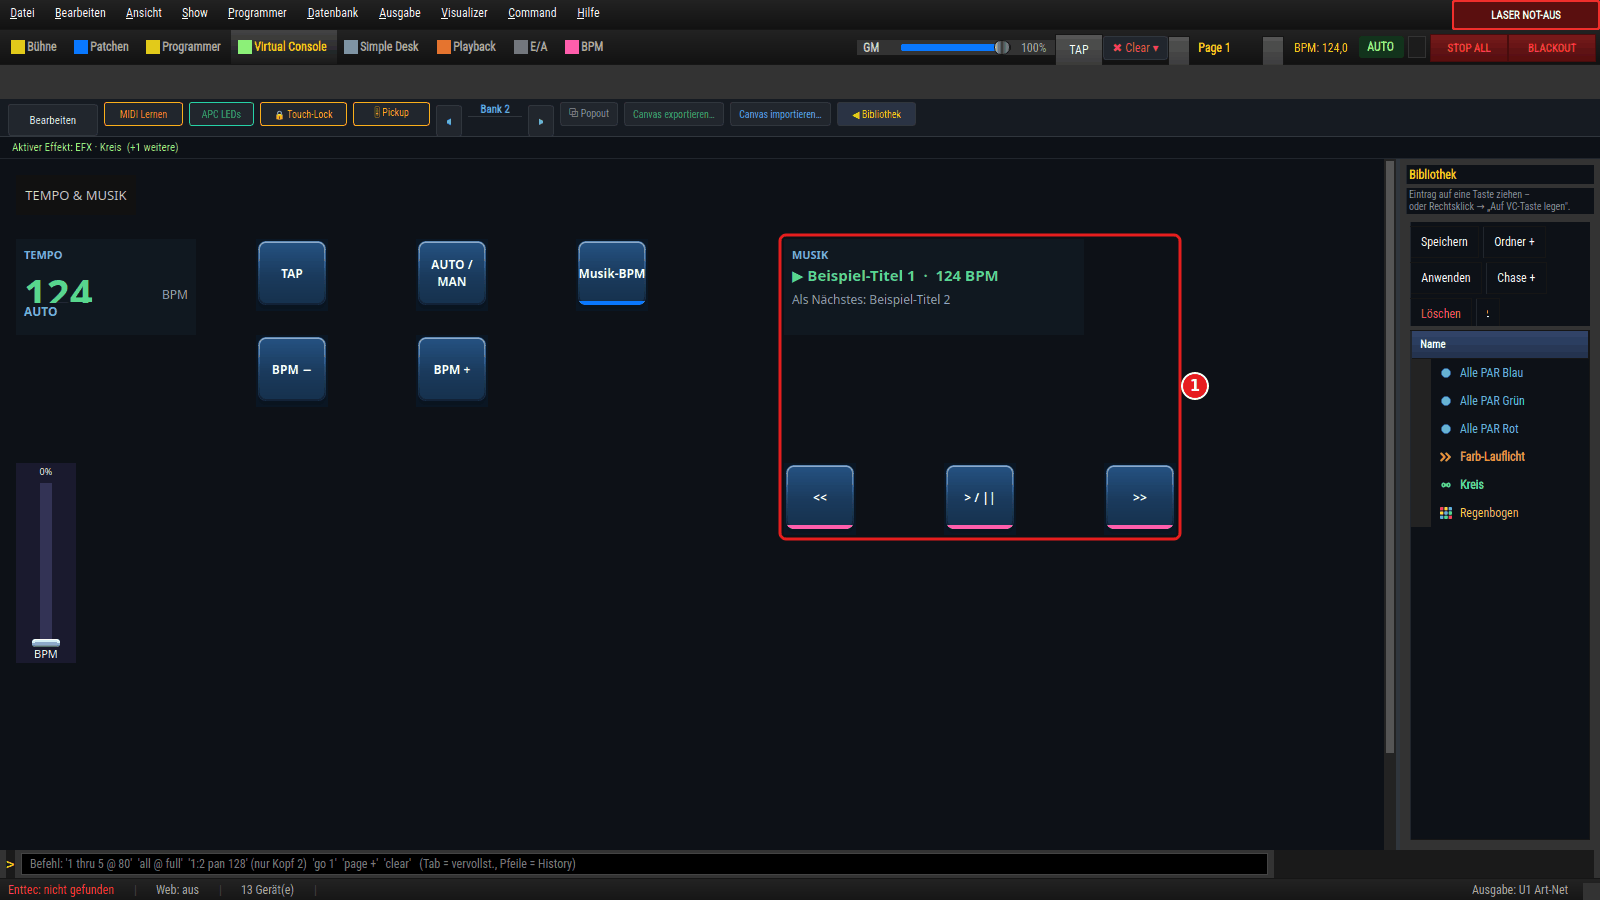
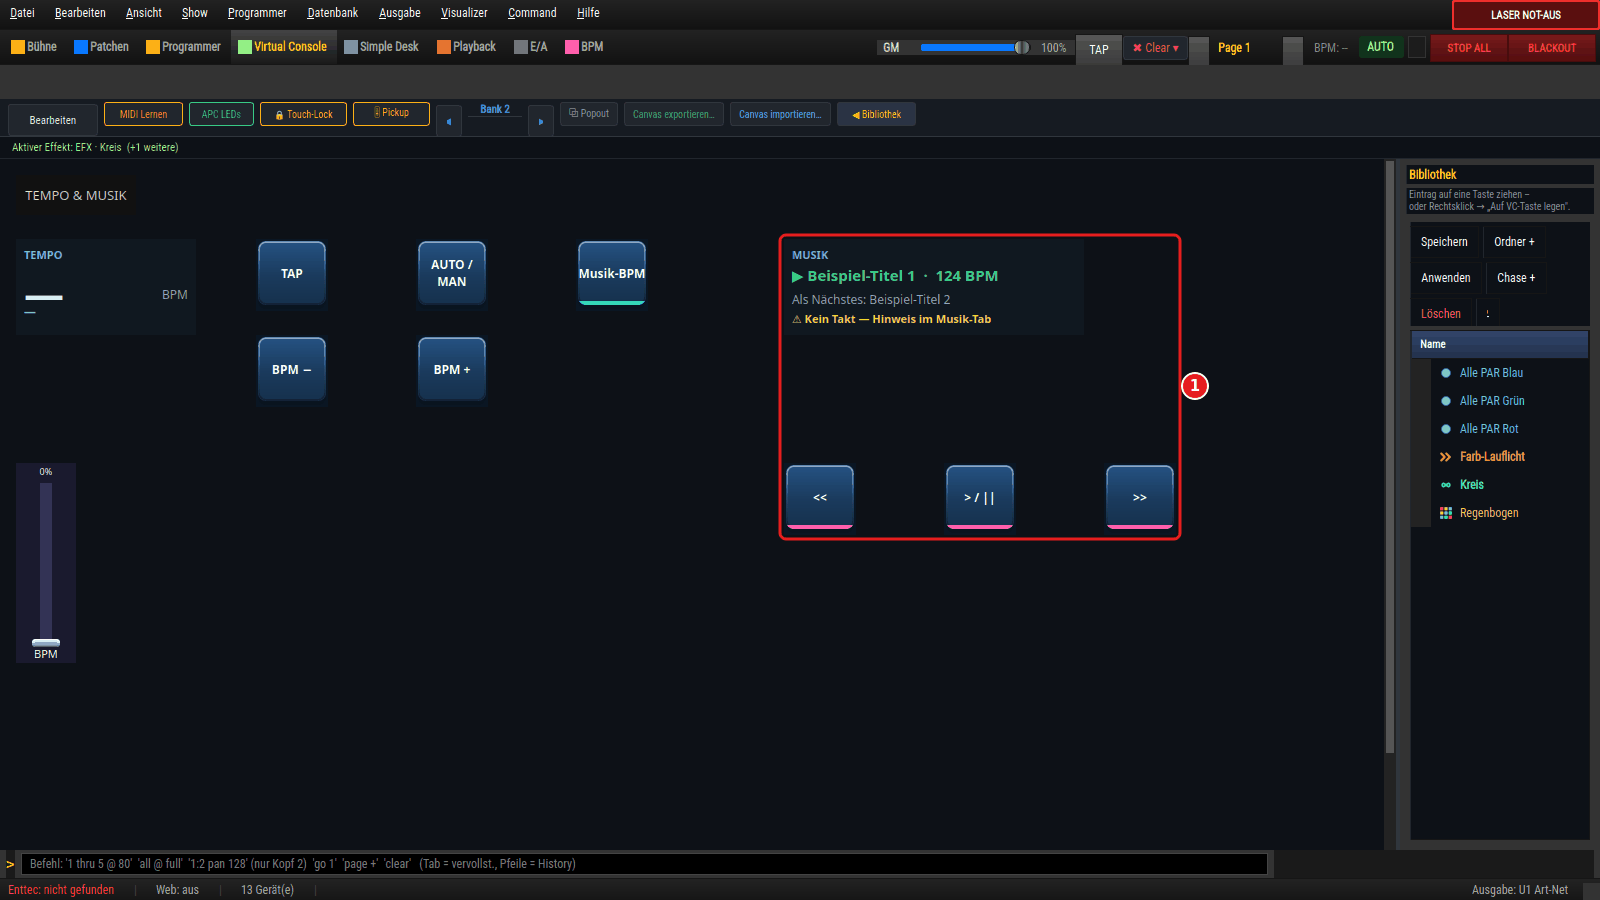
docs(musik): Hinweis "Takt aus Titel uebernehmen" in der Musik-Anleitung, Fragmente (BPM-32)

diff --git a/backlog.d/BPM-32.md b/backlog.d/BPM-32.md
@@ -1,7 +1,7 @@
 ID: BPM-32
 Prioritaet: P3
-Status: blocked
-Status-Notiz: wartet auf Entscheidung des Projektinhabers (Folgefrage aus BPM-31)
+Status: review
+Status-Notiz: entschieden (25.10.): Sperre gilt bei „Aus“/„OS2L“; Auto-Show zeigt Hinweis „Takt aus Titel übernehmen“ (Musik-Tab + VC-Musik-Anzeige); Bild 03_play_vc neu, 05_takt_hinweis neu
 Nach: BPM-31
 Titel: Auto-Show setzt die Nominal-BPM des Titels auch bei BPM-Quelle „Aus“/„OS2L“ (BPM-17-Sperre gilt dort nicht)
 
@@ -9,3 +9,5 @@ Titel: Auto-Show setzt die Nominal-BPM des Titels auch bei BPM-Quelle „Aus“/
 **Befund:** `MusicShowDirector._ensure_bpm` (`src/core/audio/music_show.py`) setzt beim Play die Nominal-BPM des Titels als Quelle „file“, sobald die BPM auf 0 steht — ohne `song_may_lead()` (BPM-17) zu fragen. `MediaPlayer._apply_track_bpm` ist dagegen gesperrt. Die Lücke bestand schon bei globaler Auto-Show-Liste und beim Trackwechsel; seit BPM-31 greift sie auch beim ersten Play mit nur einem Lied-Look. Sichtbar im Anleitungsbild `musik_sync/03_play_vc` (124 BPM bei Quelle „Aus“).
 **Zu entscheiden:** Darf die Auto-Show einen Takt setzen, wenn der Nutzer die Quelle auf „Aus“/„OS2L“ gestellt hat (sonst stehen Beat-Effekte still), oder gilt die BPM-17-Sperre auch hier?
 **Fertig, wenn:** entschieden, umgesetzt, Test für beide Quellen.
+**Entscheidung (25.10.2026, Projektinhaber):** Nein zur stillen Übernahme — die Quellenwahl gilt auch für die Auto-Show. Bei Quelle „Aus“/„OS2L“ und BPM 0 setzt `_ensure_bpm` (Play, globale Liste, Lied-Look, Trackwechsel) nichts, sondern meldet einen sichtbaren Hinweis mit Ein-Klick „Takt aus Titel übernehmen“ (Quelle → Lied-Analyse, Titel-BPM als „file“). Begründung: Nutzerwahl respektieren, bei OS2L keine Konkurrenz zur DJ-Software.
+**Ergebnis:** `nominal_fallback_blocked()` in `src/ui/bpm_source_controller.py` (gesperrt nur „off“/„os2l“, fail-open; bewusst enger als `song_may_lead`, damit PC-Audio/Eingang vor dem Einrasten ihren Fallback behalten). `MusicShowDirector` (`src/core/audio/music_show.py`): Signal `taktHinweisChanged(bpm)`, `takt_hinweis()`, `uebernehme_titel_takt()`; BPM-/Quellen-Rückrufe aus fremden Threads gehen über ein internes Signal in den GUI-Thread; Hinweis weg bei Takt, Quellenwechsel (dann greift der Fallback der neuen Quelle) oder Stop. Anzeige: gelbe Leiste im Musik-Tab (`MusicView._takt_hinweis`) und Zeile in `VCSongInfo`. Musik-Anleitung ergänzt, Bilder `03_play_vc` (neu) und `05_takt_hinweis` (neu). Test `tests/test_bpm32_takt_hinweis.py`.

diff --git a/docs/anleitung_musik_sync/ANLEITUNG_MUSIK_SYNC.md b/docs/anleitung_musik_sync/ANLEITUNG_MUSIK_SYNC.md
@@ -61,13 +61,39 @@ sind show-spezifisch), passiert automatisch:
 
    ![Musik-Anzeige in der VC (spielt)](img/03_play_vc.png)
 
-   1. Musik-Anzeige mit den Media-Tasten **`<<` / `> / ||` / `>>`**.
+   1. Musik-Anzeige mit den Media-Tasten **`<<` / `> / ||` / `>>`**. Im Bild steht die
+      BPM-Quelle auf „Aus" — deshalb zeigt die Anzeige die gelbe Zeile „Kein Takt" (siehe
+      unten, „Takt aus Titel übernehmen").
 
 2. Die **Auto-Show startet** die zugewiesenen Funktionen — die Geräte laufen los, die
    Statuszeile der VC nennt den laufenden Effekt.
 3. Beim **Trackwechsel** läuft die Playlist selbsttätig weiter; die Auto-Show bleibt aktiv und
    tauscht den Lied-Look aus. Der Lied-Look des **ersten** Titels startet schon beim ersten
    Play — auch wenn keine globale Auto-Show-Funktion eingetragen ist.
+
+### Kein Takt? Hinweis „Takt aus Titel übernehmen"
+
+Die Auto-Show braucht einen BPM-Takt, sonst stehen alle Beat-Effekte still. Ist beim Play
+noch keiner da, nimmt sie die BPM des Titels (aus der Spalte **BPM**, sonst 120) — **aber nur,
+wenn du das zulässt**: Steht die BPM-Quelle (Abschnitt 4) auf **„Aus"** oder auf **„OS2L
+(DJ-Software)"**, setzt die Auto-Show **keinen** Takt von selbst. Deine Wahl gilt, und bei
+OS2L schreibt LightOS nicht gegen das DJ-Programm an.
+
+Stattdessen erscheint im **Musik-Tab** unter „Now Playing" ein gelber Hinweis
+**„⚠ Kein Takt für die Auto-Show — …"** mit dem Knopf **„Takt aus Titel übernehmen
+(124 BPM)"**; in der VC zeigt die **Musik-Anzeige** zusätzlich die gelbe Zeile
+„⚠ Kein Takt — Hinweis im Musik-Tab".
+
+![Musik-Tab: Hinweis „Kein Takt" mit dem Knopf „Takt aus Titel übernehmen"](img/05_takt_hinweis.png)
+
+1. Der Hinweis nennt den Grund (Quelle „Aus" bzw. OS2L ohne Takt vom DJ-Programm).
+2. **„Takt aus Titel übernehmen"** stellt die BPM-Quelle auf **„Lied-Analyse (Player)"** und
+   übernimmt die BPM des Titels — die Auto-Show taktet sofort.
+
+Der Hinweis verschwindet von selbst, sobald ein Takt da ist (z. B. sendet das DJ-Programm per
+OS2L, oder du tippst **TAP**), sobald du die Quelle in der BPM-Sektion wechselst oder wenn die
+Musik stoppt. Bei **PC-Audio**, **Eingang** und **Lied-Analyse** gibt es keinen Hinweis: dort
+springt die Titel-BPM wie bisher ein, bis die Erkennung eingerastet ist.
 
 ## 4. Tempo / BPM folgt der Musik
 

diff --git a/changelog.d/2026-10-25-BPM-32.md b/changelog.d/2026-10-25-BPM-32.md
@@ -1,0 +1,7 @@
+### 2026-10-25 — Auto-Show: kein Titel-Takt bei BPM-Quelle „Aus“/„OS2L“, stattdessen Hinweis „Takt aus Titel übernehmen“ (BPM-32)
+
+#### Geaendert
+
+- **Musik → Auto-Show:** Stand die BPM-Quelle (BPM → Erkennung) auf „Aus“ oder „OS2L (DJ-Software)“ und lief noch kein Takt, setzte die Auto-Show beim Play, beim Trackwechsel und für den Lied-Look still die BPM des Titels — gegen die eigene Wahl und bei OS2L in Konkurrenz zum DJ-Programm. Jetzt setzt sie dort nichts mehr. Stattdessen erscheint im Musik-Tab unter „Now Playing“ ein gelber Hinweis „Kein Takt für die Auto-Show“ mit dem Knopf **„Takt aus Titel übernehmen (… BPM)“** (stellt die Quelle auf „Lied-Analyse (Player)“ und übernimmt die Titel-BPM); die VC-Musik-Anzeige zeigt dazu die Zeile „Kein Takt — Hinweis im Musik-Tab“. Der Hinweis verschwindet, sobald ein Takt da ist, die Quelle wechselt oder die Musik stoppt. Bei PC-Audio, Eingang und Lied-Analyse bleibt alles wie bisher.
+- **Doku:** Musik-Anleitung um den Abschnitt „Kein Takt? Hinweis …“ ergänzt, Bild `03_play_vc` neu (zeigte 124 BPM bei Quelle „Aus“), neues Bild `05_takt_hinweis`.
+- **Tests:** `test_bpm32_takt_hinweis.py`.
